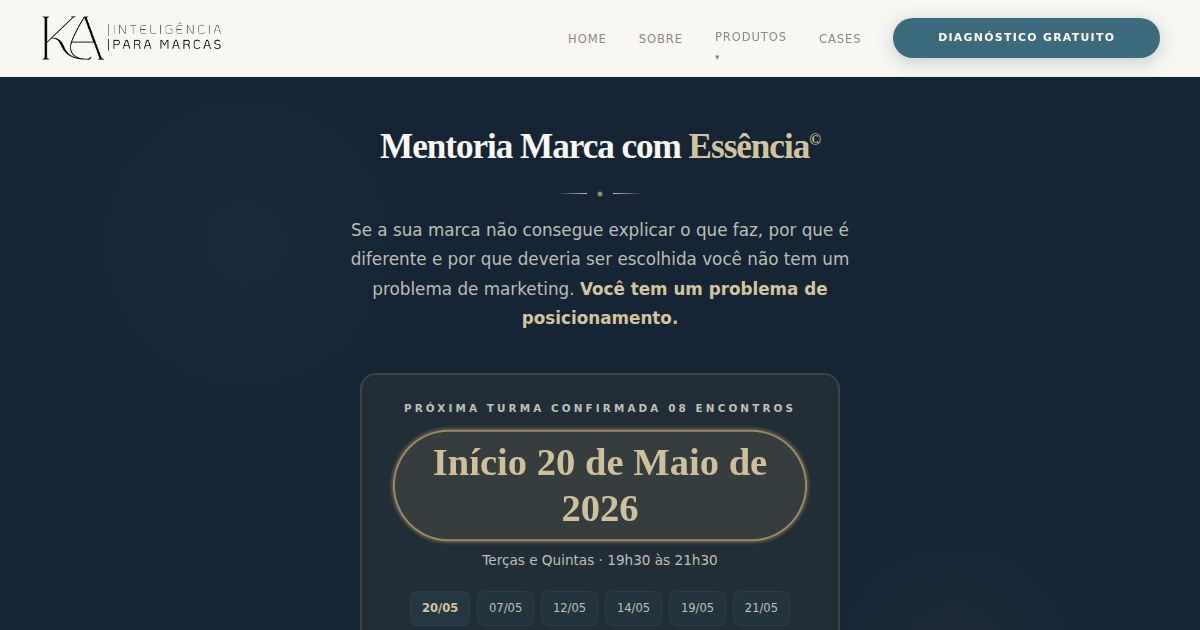
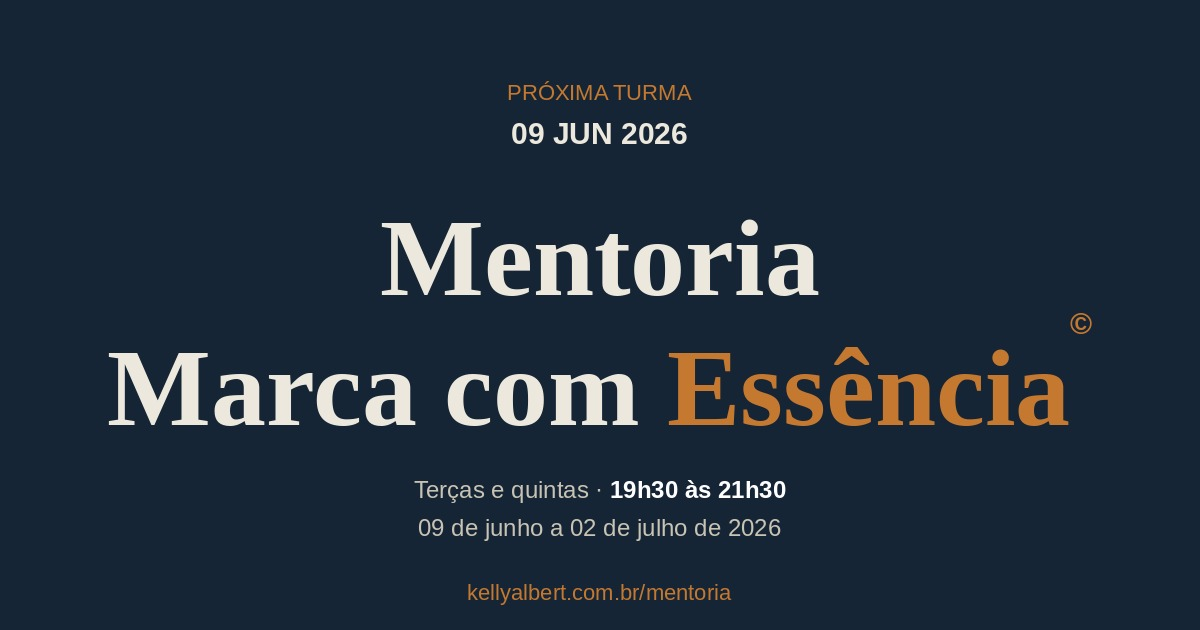
Mentoria: SEO + GEO completo + nova OG image
SEO:
- Title descritivo com keywords (era apenas 'MENTORIA')
- Meta description com data, horário, preço atualizados
- Keywords expandidas (mentoria branding 2026, agentes IA branding)
- Tags geo (BR, Brasil) e language (pt-BR)
- max-video-preview no robots

Schema.org JSON-LD (4 schemas estruturados):
1. Course: descrição completa, instructor (Person), 2 offers (à vista
   R\$ 990 + 10x R\$ 118,98), startDate/endDate ISO 8601, eventSchedule
   com byDay (Tuesday/Thursday), VirtualLocation Google Meet, teaches[],
   maximumAttendeeCapacity 30
2. BreadcrumbList: Home → Produtos → Mentoria
3. FAQPage: 11 perguntas (era 5) cobrindo preço, datas, escopo, Brand Book,
   diferença entre Livro/Mentoria/Programa
4. Person: Kelly Albert com credenciais (FGV, ESPM), histórico (McDonald's,
   Sebrae, Atacadão...), sameAs Instagram/TikTok

OG/Twitter cards atualizados:
- og:title com 'Próxima turma 09 jun 2026' (urgência no preview)
- og:description com data, horário e preço
- og:site_name, og:image:secure_url, og:image:alt
- twitter:title, twitter:description, twitter:image:alt específicos

OG image regenerada (1200x630):
- Hero da página em PIL com Liberation Serif/Sans
- 'PRÓXIMA TURMA / 09 JUN 2026' eyebrow
- 'Mentoria / Marca com Essência©' título (Essência em laranja)
- Schedule e período visíveis
- URL kellyalbert.com.br/mentoria

diff --git a/mentoria/index.html b/mentoria/index.html
@@ -1,16 +1,35 @@
 <!DOCTYPE html><html lang="pt-BR"><head><meta charset="UTF-8"><meta name="viewport" content="width=device-width, initial-scale=1.0">
-<title>MENTORIA</title>
-<script type="application/ld+json">
-{"@context":"https://schema.org","@type":"Course","name":"Mentoria Marca com Essência©","description":"8 encontros ao vivo pelo Google Meet em turma com Kelly Albert para aplicar o Método Marca com Essência© ao seu negócio. Inclui Brand Book completo, 7 Agentes de IA e livro físico+digital.","provider":{"@type":"Organization","name":"KA | Inteligência para Marcas","url":"https://kellyalbert.com.br"},"instructor":{"@type":"Person","name":"Kelly Albert"},"offers":{"@type":"Offer","price":"990","priceCurrency":"BRL","availability":"https://schema.org/InStock"},"hasCourseInstance":{"@type":"CourseInstance","courseMode":"online","courseWorkload":"PT16H","location":{"@type":"VirtualLocation","url":"https://meet.google.com/"}}}
-</script>
-<script type="application/ld+json">
-{"@context":"https://schema.org","@type":"FAQPage","mainEntity":[{"@type":"Question","name":"Quando começa a próxima turma?","acceptedAnswer":{"@type":"Answer","text":"A próxima turma começa em 09 de Junho de 2026, com 8 encontros ao vivo pelo Google Meet, distribuídos em 4 semanas (terças e quintas-feiras)."}},{"@type":"Question","name":"As aulas são ao vivo ou gravadas?","acceptedAnswer":{"@type":"Answer","text":"Os 8 encontros são ao vivo pelo Google Meet, conduzidos pela Kelly Albert. Todas as aulas ficam gravadas, então se você não puder participar de algum encontro, pode rever depois sem perder o conteúdo."}},{"@type":"Question","name":"Quais dias e horários acontecem os encontros?","acceptedAnswer":{"@type":"Answer","text":"Terças e quintas-feiras, das 19h30 às 21h30 (horário de Brasília), pelo Google Meet. São 8 encontros de no mínimo 2 horas cada, totalizando mais de 16 horas de mentoria ao vivo em 4 semanas."}},{"@type":"Question","name":"O que eu saio com no final da mentoria?","acceptedAnswer":{"@type":"Answer","text":"Você sai com o Brand Book completo da sua marca: posicionamento, essência, identidade verbal, tom de voz, público ideal e plano de ação. Também recebe 7 Agentes de IA exclusivos para continuar aplicando o método e o livro Marca com Essência© físico e digital."}},{"@type":"Question","name":"Para quem é (e para quem não é) essa mentoria?","acceptedAnswer":{"@type":"Answer","text":"É para profissionais liberais, empresários e marcas pessoais que querem estruturar o posicionamento com método. Não é para quem busca apenas um logo, quer solução pronta sem participar do processo, ou ainda não tem clareza do tipo de negócio que quer construir."}}]}
-</script>
-<meta name="description" content="Mentoria de posicionamento de marca com Kelly Albert. 8 encontros ao vivo pelo Google Meet para construir o posicionamento da sua marca com direcionamento estratégico.">
-<meta name="keywords" content="mentoria de posicionamento de marca, mentoria de branding, Kelly Albert mentoria, marca com essência mentoria, mentoria brand book, posicionamento de marca pessoal">
+<title>Mentoria Marca com Essência© | Posicionamento de Marca em 8 encontros ao vivo com Kelly Albert</title>
+<meta name="description" content="Mentoria de posicionamento de marca em grupo, ao vivo pelo Google Meet, com Kelly Albert. 8 encontros, terças e quintas das 19h30 às 21h30, de 09 de junho a 02 de julho de 2026. Inclui o livro Marca com Essência©, 7 Agentes de IA exclusivos e Brand Book completo. R$ 990 à vista ou 10x de R$ 118,98.">
+<meta name="keywords" content="mentoria de posicionamento de marca, mentoria de branding, Kelly Albert mentoria, marca com essência mentoria, mentoria brand book, posicionamento de marca pessoal, mentoria de marca em grupo, mentoria ao vivo google meet, mentoria branding 2026, livro marca com essência, agentes de IA branding">
 <meta name="author" content="Kelly Albert">
-<meta name="robots" content="index, follow, max-snippet:-1, max-image-preview:large">
+<meta name="robots" content="index, follow, max-snippet:-1, max-image-preview:large, max-video-preview:-1">
+<meta name="geo.region" content="BR">
+<meta name="geo.placename" content="Brasil">
+<meta name="language" content="Portuguese">
+<meta http-equiv="content-language" content="pt-BR">
 <link rel="canonical" href="https://kellyalbert.com.br/mentoria/">
+
+<!-- Schema.org: Course -->
+<script type="application/ld+json">
+{"@context":"https://schema.org","@type":"Course","name":"Mentoria Marca com Essência©","description":"Mentoria de posicionamento de marca em grupo, ao vivo pelo Google Meet. 8 encontros conduzidos por Kelly Albert para construir o Brand Book completo da sua marca, aplicando o Método Marca com Essência©. Inclui livro físico+digital, 7 Agentes de IA exclusivos no ChatGPT, exercícios no Google Docs e áudios no Spotify.","url":"https://kellyalbert.com.br/mentoria/","image":"https://kellyalbert.com.br/images/og/og-mentoria.jpg","provider":{"@type":"Organization","name":"KA | Inteligência para Marcas","url":"https://kellyalbert.com.br","logo":"https://kellyalbert.com.br/images/logo-ka.png"},"instructor":{"@type":"Person","name":"Kelly Albert","jobTitle":"Estrategista de Marcas","url":"https://kellyalbert.com.br/sobre/","sameAs":["https://instagram.com/kellyalbert.brand","https://www.tiktok.com/@kellyalbertbr"]},"inLanguage":"pt-BR","educationalLevel":"Profissional","teaches":["Posicionamento de marca","Branding","Identidade verbal","Tom de voz","Brand Book","Inteligência Artificial aplicada ao branding"],"offers":[{"@type":"Offer","name":"À vista","price":"990","priceCurrency":"BRL","availability":"https://schema.org/InStock","url":"https://pay.hotmart.com/J105727850F","validFrom":"2026-01-01"},{"@type":"Offer","name":"Parcelado em 10x","price":"1189.80","priceCurrency":"BRL","availability":"https://schema.org/InStock","url":"https://pay.hotmart.com/J105727850F"}],"hasCourseInstance":{"@type":"CourseInstance","courseMode":"Online","courseWorkload":"PT16H","startDate":"2026-06-09T19:30:00-03:00","endDate":"2026-07-02T21:30:00-03:00","eventSchedule":{"@type":"Schedule","repeatFrequency":"P1W","byDay":["Tuesday","Thursday"],"startTime":"19:30","endTime":"21:30","duration":"PT2H"},"location":{"@type":"VirtualLocation","name":"Google Meet","url":"https://meet.google.com/"},"instructor":{"@type":"Person","name":"Kelly Albert"},"inLanguage":"pt-BR","maximumAttendeeCapacity":30}}
+</script>
+
+<!-- Schema.org: BreadcrumbList -->
+<script type="application/ld+json">
+{"@context":"https://schema.org","@type":"BreadcrumbList","itemListElement":[{"@type":"ListItem","position":1,"name":"Home","item":"https://kellyalbert.com.br"},{"@type":"ListItem","position":2,"name":"Produtos","item":"https://kellyalbert.com.br/produtos/"},{"@type":"ListItem","position":3,"name":"Mentoria Marca com Essência©","item":"https://kellyalbert.com.br/mentoria/"}]}
+</script>
+
+<!-- Schema.org: FAQPage -->
+<script type="application/ld+json">
+{"@context":"https://schema.org","@type":"FAQPage","mainEntity":[{"@type":"Question","name":"O que é a Mentoria Marca com Essência©?","acceptedAnswer":{"@type":"Answer","text":"É um programa em grupo de 8 encontros ao vivo pelo Google Meet, conduzido pela estrategista de marcas Kelly Albert, para você construir o posicionamento, identidade verbal, tom de voz, arquitetura de marca e estratégia de comunicação da sua marca pessoal ou empresarial. Ao final dos 8 encontros, você sai com o Brand Book completo da sua marca."}},{"@type":"Question","name":"Quando começa a próxima turma da Mentoria Marca com Essência©?","acceptedAnswer":{"@type":"Answer","text":"A próxima turma começa em 09 de junho de 2026 e termina em 02 de julho de 2026. São 8 encontros ao vivo distribuídos em 4 semanas, sempre às terças e quintas-feiras das 19h30 às 21h30 (horário de Brasília), pelo Google Meet."}},{"@type":"Question","name":"Quanto custa a Mentoria Marca com Essência©?","acceptedAnswer":{"@type":"Answer","text":"R$ 990 à vista (Pix ou cartão) ou 10x de R$ 118,98 no cartão de crédito. O pagamento é feito pela Hotmart e a vaga é confirmada na hora."}},{"@type":"Question","name":"Serve para marca pessoal ou marca empresarial?","acceptedAnswer":{"@type":"Answer","text":"Para os dois. O Método Marca com Essência© começa pela essência de quem fundou a marca, então funciona tanto para profissionais liberais e marcas pessoais quanto para empresas que precisam estruturar ou reposicionar sua marca no mercado."}},{"@type":"Question","name":"Preciso ter conhecimento prévio de branding?","acceptedAnswer":{"@type":"Answer","text":"Não. A Kelly explica tudo do zero. Você só precisa de um computador com acesso ao Google Meet e uma conta no ChatGPT (a versão gratuita já atende)."}},{"@type":"Question","name":"As aulas são ao vivo ou gravadas?","acceptedAnswer":{"@type":"Answer","text":"Os 8 encontros acontecem ao vivo pelo Google Meet, conduzidos pela Kelly Albert, com tira-dúvidas em tempo real. Todas as aulas ficam gravadas, então se você não puder participar de algum encontro, pode rever depois."}},{"@type":"Question","name":"Quais dias e horários acontecem os encontros?","acceptedAnswer":{"@type":"Answer","text":"Terças e quintas-feiras, das 19h30 às 21h30 (horário de Brasília). Datas: 09, 11, 16, 18, 23, 25, 30 de junho e 02 de julho de 2026. São 8 encontros de no mínimo 2 horas cada, totalizando mais de 16 horas de mentoria ao vivo."}},{"@type":"Question","name":"O que está incluído na Mentoria?","acceptedAnswer":{"@type":"Answer","text":"8 encontros ao vivo no Google Meet com Kelly Albert; áudios complementares no Spotify; exercícios estratégicos no Google Docs; 7 Agentes de IA exclusivos no ChatGPT; aulas gravadas para rever depois; Brand Book completo da sua marca; e o livro Marca com Essência© em versão digital (acesso imediato) + versão física (entregue pelos Correios)."}},{"@type":"Question","name":"O que é o Brand Book e como ele é construído?","acceptedAnswer":{"@type":"Answer","text":"O Brand Book é o documento estratégico final que reúne posicionamento, essência, identidade verbal, tom de voz, público ideal e plano de ação da sua marca. Ele é construído por você ao longo dos 8 encontros, com a orientação da Kelly Albert. A mentoria não inclui criação de identidade visual (logo, cores, tipografias)."}},{"@type":"Question","name":"Para quem NÃO é a Mentoria Marca com Essência©?","acceptedAnswer":{"@type":"Answer","text":"Não é para quem busca apenas um logo ou identidade visual; quer uma solução pronta sem participar do processo; não tem disponibilidade nas terças e quintas a partir das 19h30; ou prefere que alguém faça tudo pela marca. Nesse último caso, conheça o Programa Marca com Essência©."}},{"@type":"Question","name":"Qual a diferença entre o Livro, a Mentoria e o Programa Marca com Essência©?","acceptedAnswer":{"@type":"Answer","text":"No Livro (R$ 117), você aplica o método sozinho, no seu ritmo. Na Mentoria (R$ 990), você aplica em grupo com a Kelly Albert guiando ao vivo durante 8 encontros. No Programa (a partir de R$ 3.500), a Kelly e a equipe da KA constroem a marca para você."}}]}
+</script>
+
+<!-- Schema.org: Person (instructor) -->
+<script type="application/ld+json">
+{"@context":"https://schema.org","@type":"Person","name":"Kelly Albert","jobTitle":"Estrategista de Marcas e Fundadora da KA | Inteligência para Marcas","description":"Publicitária, MBA em Gestão Estratégica de Negócios pela FGV/SP, com mais de 20 anos de experiência em posicionamento de marcas. Já atuou junto a marcas como McDonald's, Sebrae, Atacadão (Grupo Carrefour), Suvinil, Grupo Ramarim e Band FM. Criadora do Método Marca com Essência©.","url":"https://kellyalbert.com.br/sobre/","image":"https://kellyalbert.com.br/images/kelly-bio.jpg","sameAs":["https://instagram.com/kellyalbert.brand","https://www.tiktok.com/@kellyalbertbr"],"alumniOf":[{"@type":"EducationalOrganization","name":"FGV/SP"},{"@type":"EducationalOrganization","name":"ESPM/SP"}],"worksFor":{"@type":"Organization","name":"KA | Inteligência para Marcas","url":"https://kellyalbert.com.br"}}
+</script>
+
 <link rel="stylesheet" href="/css/style.css">
 <link rel="icon" type="image/x-icon" href="/favicon.ico">
 <link rel="icon" type="image/png" sizes="32x32" href="/images/favicon-32x32.png">
@@ -137,18 +156,23 @@ details summary::marker{display:none}
 .amb-marinho em{color:#C47830!important}
 .amb-marinho .line{background:#C47830!important}
 </style>
-<meta property="og:title" content="Mentoria Marca com Essência© | Kelly Albert">
-<meta property="og:description" content="8 encontros ao vivo pelo Google Meet para posicionar sua marca com direcionamento estratégico.">
 <meta property="og:type" content="website">
+<meta property="og:site_name" content="KA | Inteligência para Marcas">
+<meta property="og:title" content="Mentoria Marca com Essência© | Kelly Albert · Próxima turma 09 jun 2026">
+<meta property="og:description" content="8 encontros ao vivo no Google Meet com Kelly Albert, terças e quintas das 19h30 às 21h30, de 09 jun a 02 jul de 2026. Inclui livro Marca com Essência©, 7 Agentes de IA e Brand Book completo. R$ 990 à vista ou 10x R$ 118,98.">
+<meta property="og:url" content="https://kellyalbert.com.br/mentoria/">
+<meta property="og:locale" content="pt_BR">
 <meta property="og:image" content="https://kellyalbert.com.br/images/og/og-mentoria.jpg">
+<meta property="og:image:secure_url" content="https://kellyalbert.com.br/images/og/og-mentoria.jpg">
 <meta property="og:image:width" content="1200">
 <meta property="og:image:height" content="630">
 <meta property="og:image:type" content="image/jpeg">
-<meta property="og:url" content="https://kellyalbert.com.br/mentoria/">
-<meta property="og:locale" content="pt_BR">
+<meta property="og:image:alt" content="Mentoria Marca com Essência© – Próxima turma 09 jun 2026 com Kelly Albert">
 <meta name="twitter:card" content="summary_large_image">
+<meta name="twitter:title" content="Mentoria Marca com Essência© | Próxima turma 09 jun 2026">
+<meta name="twitter:description" content="8 encontros ao vivo no Google Meet com Kelly Albert. Terças e quintas, 19h30. R$ 990 ou 10x R$ 118,98.">
 <meta name="twitter:image" content="https://kellyalbert.com.br/images/og/og-mentoria.jpg">
-<meta name="robots" content="index, follow">
+<meta name="twitter:image:alt" content="Mentoria Marca com Essência© com Kelly Albert">
 </head><body>
 
 <nav class="nav"><div class="nav__inner">
